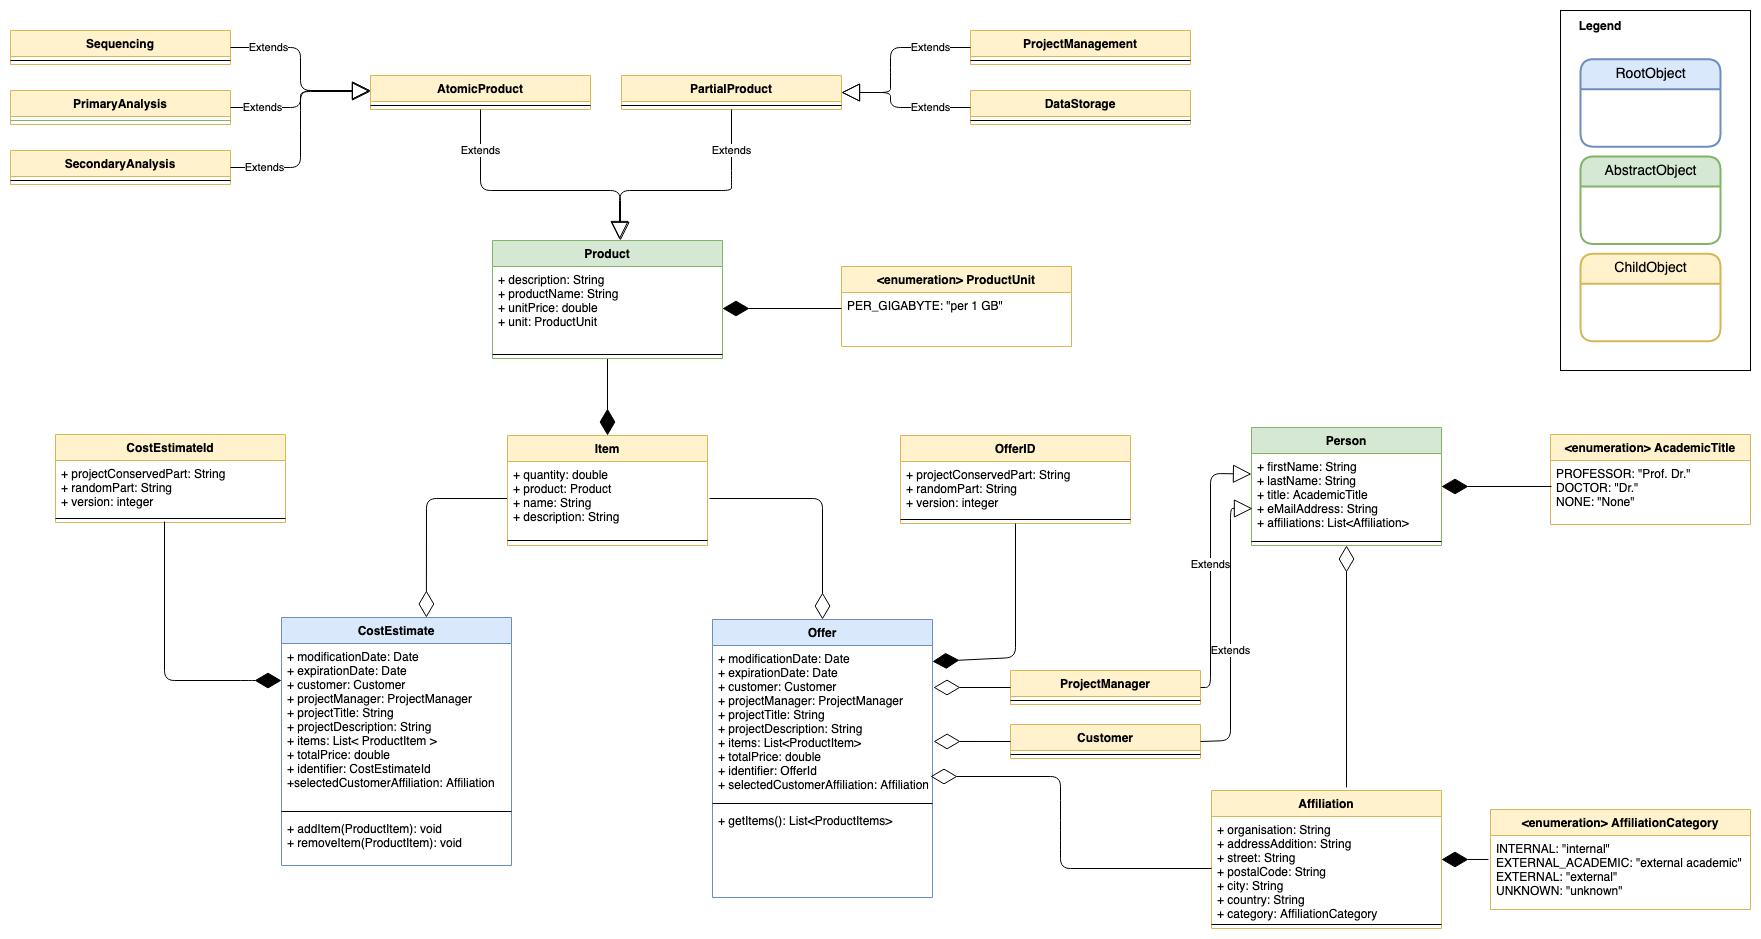
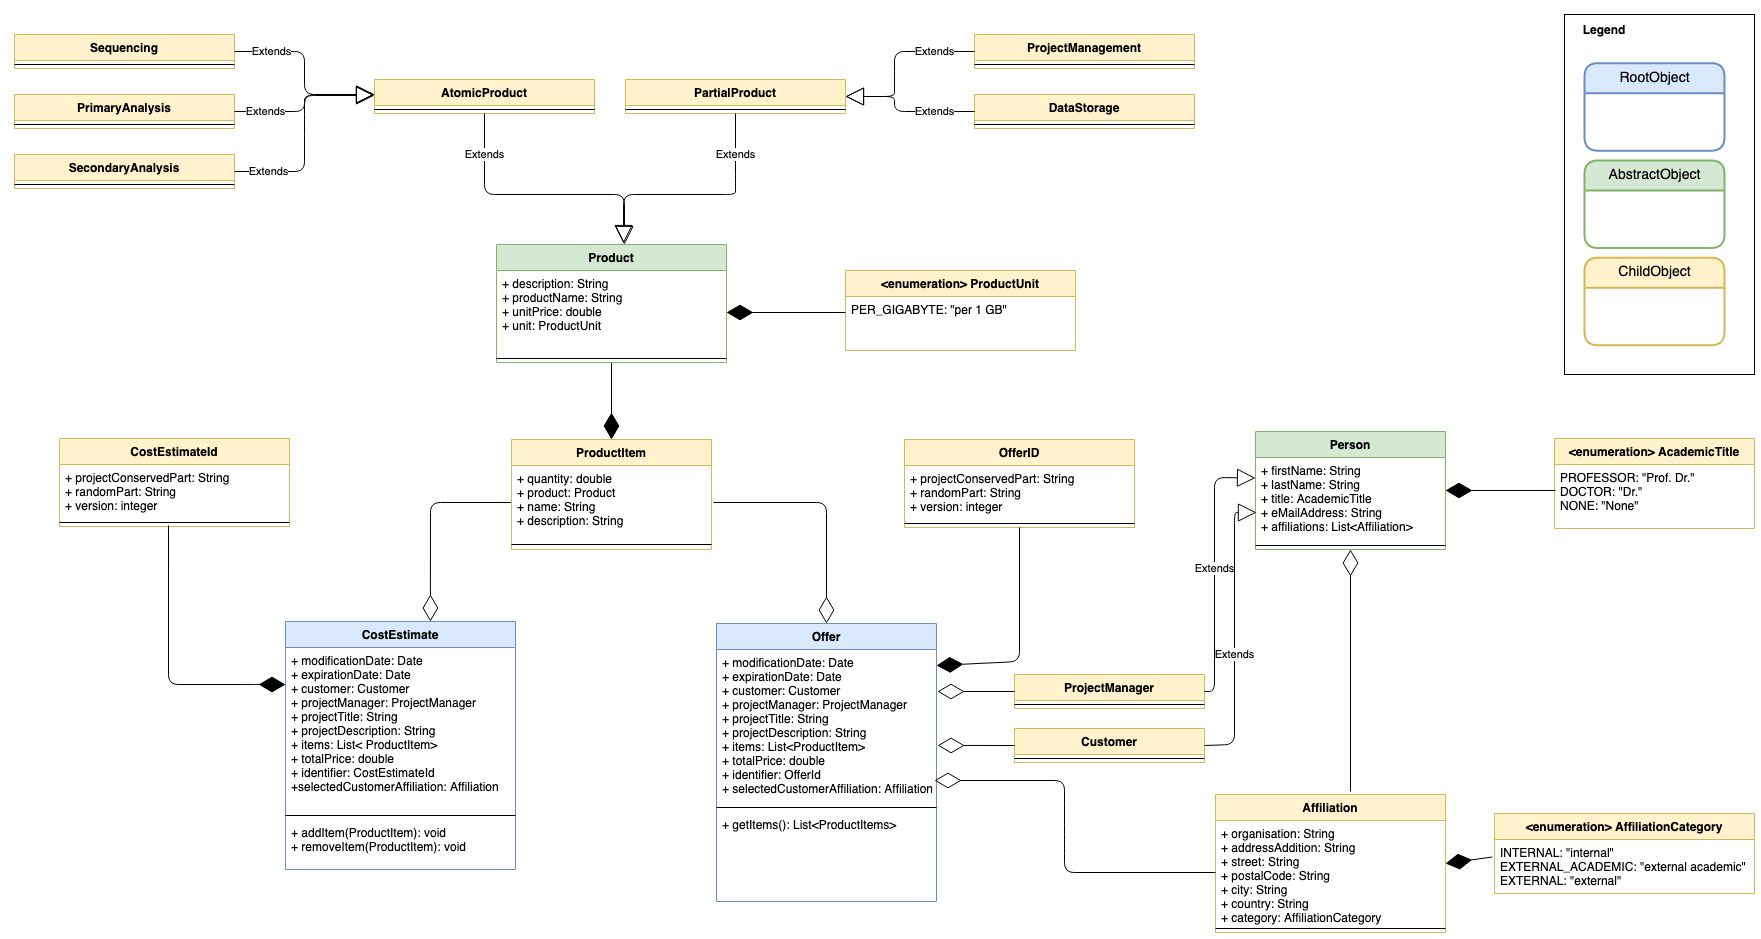
Remove "Unknown" member from Affiliation Category, Add Testing and update DTO diagram accordingly

diff --git a/CHANGELOG.rst b/CHANGELOG.rst
@@ -29,6 +29,7 @@ This project adheres to `Semantic Versioning <https://semver.org/>`_.
 * Refactor life/qbic/datamodel/accounting/CostEstimate.groovy into Builder pattern
 * Add diagram and description of DTO structure related to Offer management to README
 * Add enum factory for product units
+* Remove "Unknown" member from Affiliation Category Enum
 **Fixed**
 * Add default values to previous Address Implementation to avoid NullExceptions
 
